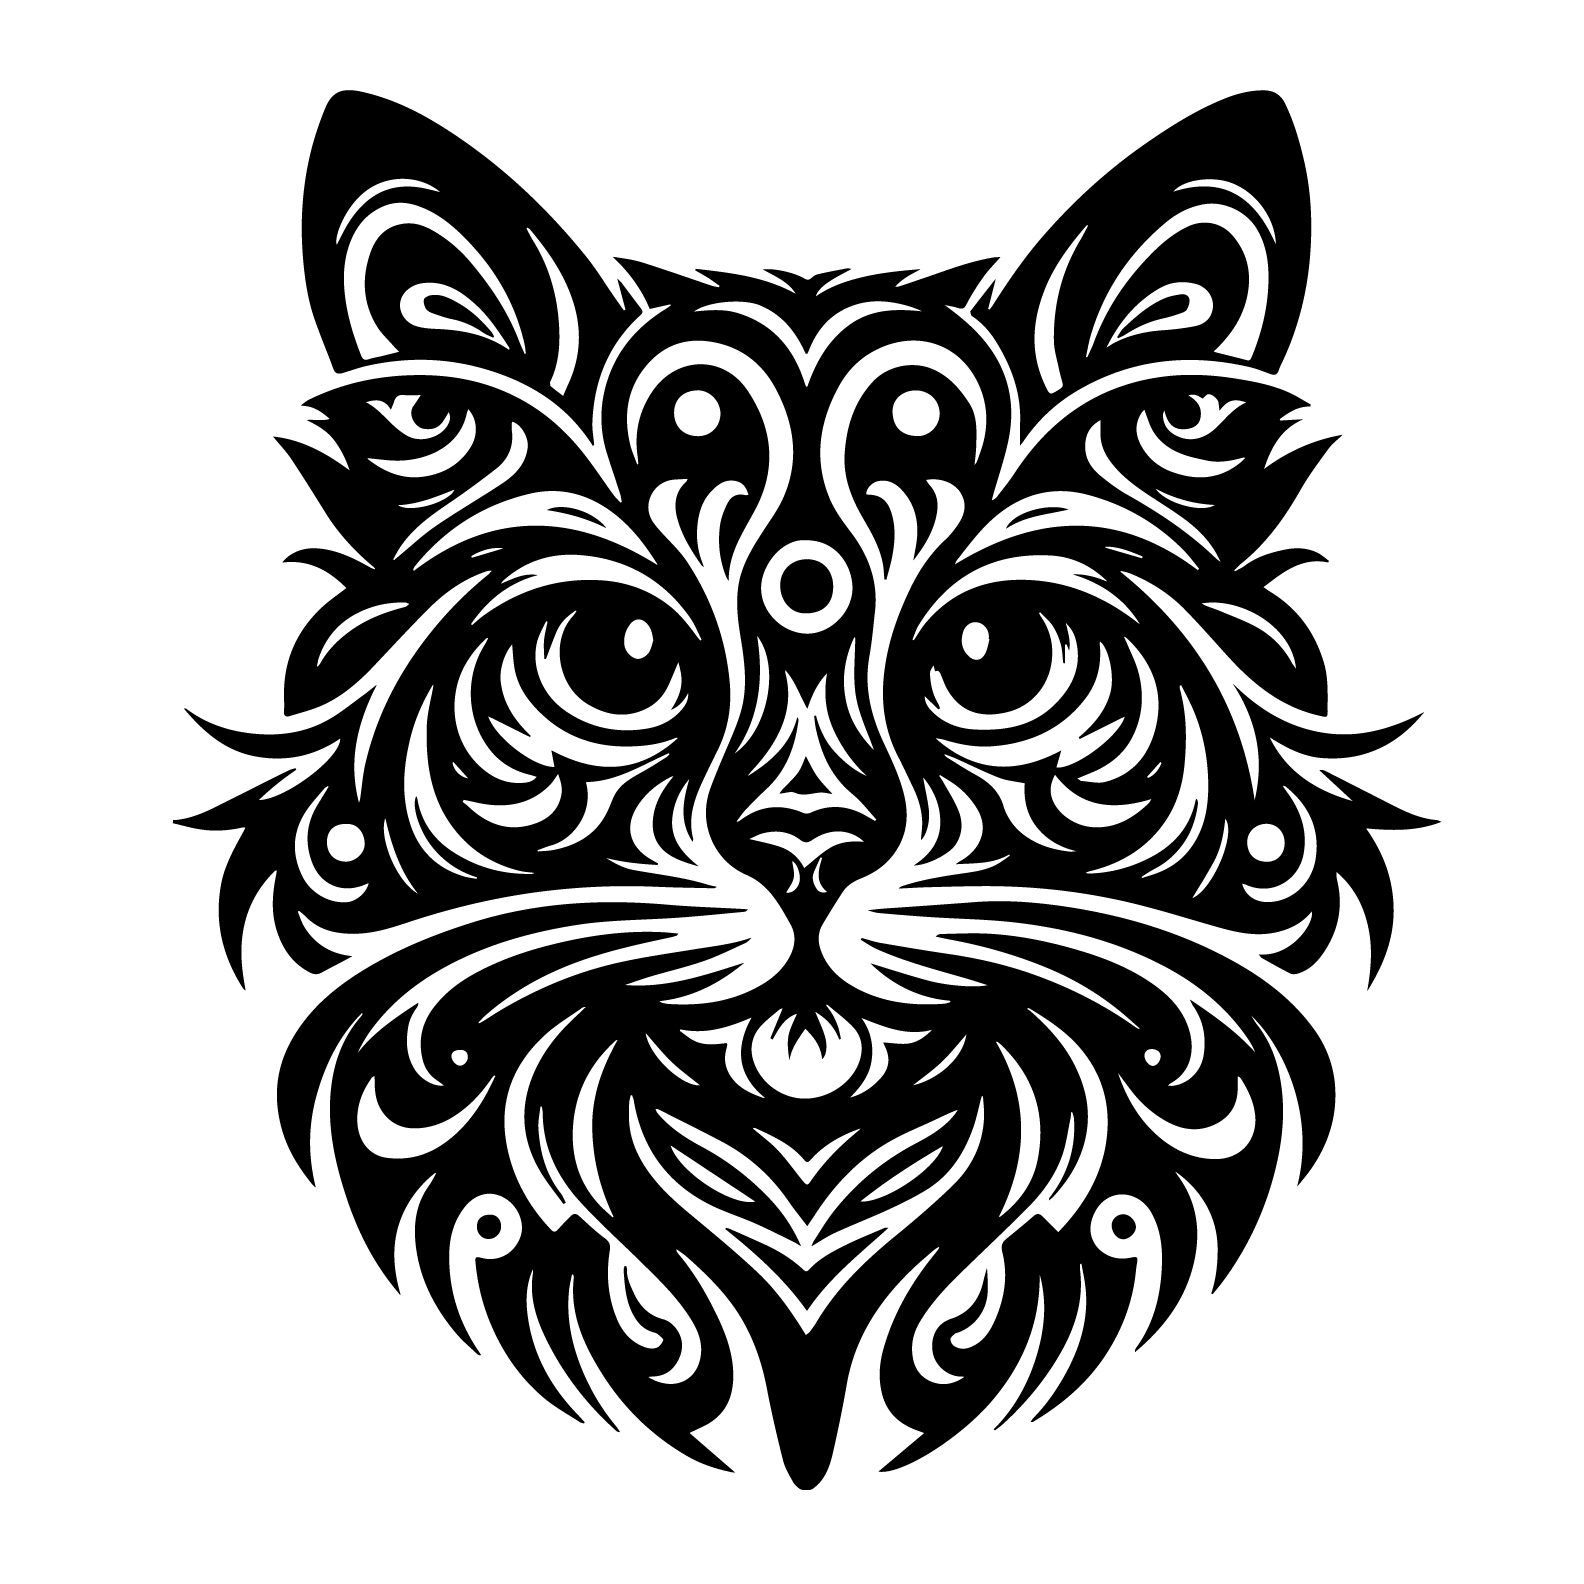
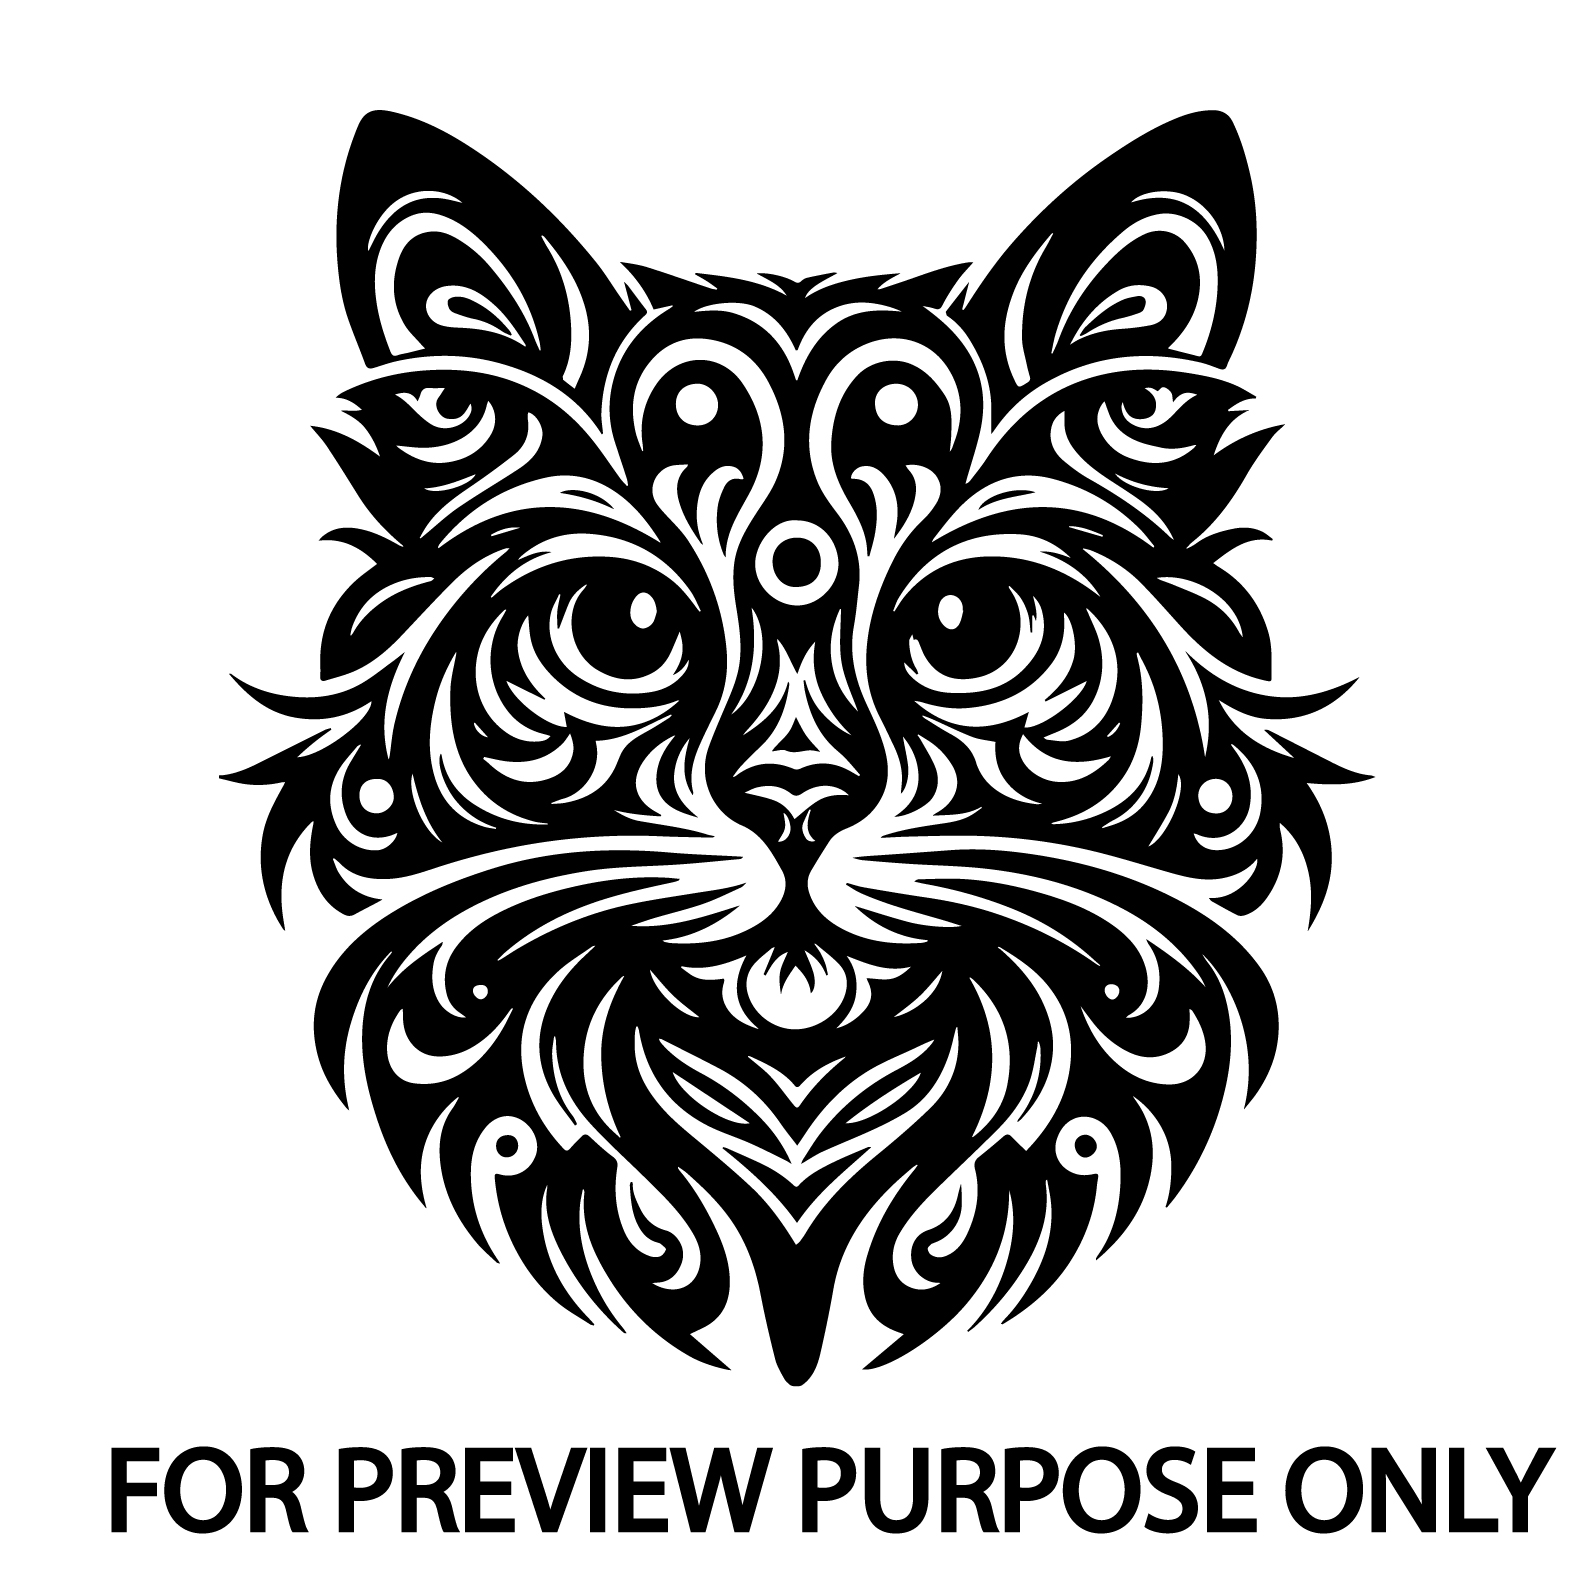
final at last but still

Changed region(s): [[0.0619, 0.0309, 0.9899, 0.9899]]

diff --git a/index.html b/index.html
@@ -492,6 +492,34 @@ h3{
     object-fit:contain;
     background:#08090d;
     display:block;
+    transform:scale(1);
+    transform-origin:center center;
+    transition:transform .2s ease;
+    cursor:zoom-in;
+}
+
+.zoom-controls{
+    position:absolute;
+    left:14px;
+    top:12px;
+    display:flex;
+    gap:6px;
+    z-index:2;
+}
+
+.zoom-controls button{
+    width:38px;
+    height:38px;
+    border-radius:50%;
+    border:1px solid #ffffff22;
+    background:#090a0dcc;
+    color:white;
+    cursor:pointer;
+    font-size:20px;
+}
+
+.zoom-controls button:hover{
+    background:#ffffff22;
 }
 
 .modal-content{
@@ -814,6 +842,12 @@ footer{
 
     <div class="modal-box">
 
+        <div class="zoom-controls">
+            <button id="zoomOut" title="Zoom Out">−</button>
+            <button id="zoomReset" title="Reset Zoom">⟳</button>
+            <button id="zoomIn" title="Zoom In">+</button>
+        </div>
+
         <button class="close" id="close">×</button>
 
         <img class="modal-img" id="modalImg" alt="">
@@ -844,35 +878,56 @@ const projects = [
         title:"Character — Half Body",
         category:"Half Body",
         description:"A polished half-body vector character illustration focused on expression, silhouette and clean line work.",
-        image:"https://images.unsplash.com/photo-1544005313-94ddf0286df2?auto=format&fit=crop&w=1200&q=85"
+        image:""
     },
 
     {
         title:"Character — Full Body",
         category:"Full Body",
         description:"Full-body character artwork designed with a strong silhouette and detailed clothing and proportions.",
-        image:"https://images.unsplash.com/photo-1500648767791-00dcc994a43e?auto=format&fit=crop&w=1200&q=85"
+        image:"Rabbit femboy-01.jpg"
     },
 
     {
         title:"Character Reference Sheet",
         category:"Reference Sheet",
         description:"A complete character presentation showing multiple views, expressions and design details.",
-        image:"https://images.unsplash.com/photo-1535713875002-d1d0cf377fde?auto=format&fit=crop&w=1200&q=85"
+        image:"Dog.jpg"
+    },
+    
+    {
+        title:"Character Reference Sheet",
+        category:"Reference Sheet",
+        description:"A complete character presentation showing multiple views, expressions and design details.",
+        image:"fox.jpg"
     },
 
     {
         title:"Stylized 2D Portrait",
         category:"2D",
         description:"A stylized 2D portrait using simplified shapes, confident edges and graphic color blocking.",
-        image:"https://images.unsplash.com/photo-1494790108377-be9c29b29330?auto=format&fit=crop&w=1200&q=85"
+        image:"mad1.jpg"
+    },
+
+    {
+        title:"Stylized 2D Portrait",
+        category:"2D",
+        description:"A stylized 2D portrait using simplified shapes, confident edges and graphic color blocking.",
+        image:"mad2.jpg"
     },
 
     {
         title:"2D Realistic Portrait",
         category:"2D Realistic",
         description:"A detailed 2D portrait with realistic proportions, subtle shading and refined rendering.",
-        image:"preview final-01.jpg"
+        image:"blue.jpg"
+    },
+    
+    {
+        title:"2D Realistic Portrait",
+        category:"2D Realistic",
+        description:"A detailed 2D portrait with realistic proportions, subtle shading and refined rendering.",
+        image:"fox girl-01.jpg"
     },
 
     {
@@ -882,7 +937,7 @@ const projects = [
         image:"cat-01.jpg"
     },
     {
-        title:"Sticker Tracing Pack",
+        title:"Simple Sticker Tracing",
         category:"Stickers Tracing",
         description:"Clean traced sticker artwork prepared with bold outlines and shapes suitable for sticker production.",
         image:"man-01.jpg"
@@ -906,6 +961,13 @@ const projects = [
         category:"Half Body",
         description:"An expressive character composition combining strong pose, facial expression and clean vector construction.",
         image:"https://images.unsplash.com/photo-1547425260-76bcadfb4f2c?auto=format&fit=crop&w=1200&q=85"
+    },
+
+    {
+        title:"T-Shirt Designing",
+        category:"T-Shirt Designing",
+        description:"Creative T-shirt designs developed with bold graphics, clean composition and strong visual impact.",
+        image:"shirt1.jpg"
     }
 
 ];
@@ -1014,11 +1076,58 @@ const modalImage = document.getElementById("modalImg");
 const modalCategory = document.getElementById("modalCategory");
 const modalTitle = document.getElementById("modalTitle");
 const modalDescription = document.getElementById("modalDescription");
+const zoomIn = document.getElementById("zoomIn");
+const zoomOut = document.getElementById("zoomOut");
+const zoomReset = document.getElementById("zoomReset");
+
+let zoomLevel = 1;
+
+function updateZoom(){
+    modalImage.style.transform = `scale(${zoomLevel})`;
+    modalImage.style.cursor = zoomLevel > 1 ? "zoom-out" : "zoom-in";
+}
+
+zoomIn.onclick = event => {
+    event.stopPropagation();
+    zoomLevel = Math.min(zoomLevel + 0.25, 3);
+    updateZoom();
+};
+
+zoomOut.onclick = event => {
+    event.stopPropagation();
+    zoomLevel = Math.max(zoomLevel - 0.25, 1);
+    updateZoom();
+};
+
+zoomReset.onclick = event => {
+    event.stopPropagation();
+    zoomLevel = 1;
+    updateZoom();
+};
+
+modalImage.addEventListener("wheel", event => {
+    event.preventDefault();
+    zoomLevel += event.deltaY < 0 ? 0.1 : -0.1;
+    zoomLevel = Math.min(Math.max(zoomLevel, 1), 3);
+    updateZoom();
+}, {passive:false});
+
+modalImage.onclick = event => {
+    event.stopPropagation();
+    if(zoomLevel > 1){
+        zoomLevel = 1;
+    }else{
+        zoomLevel = 2;
+    }
+    updateZoom();
+};
 
 function openModal(project){
 
     modalImage.src = project.image;
     modalImage.alt = project.title;
+    zoomLevel = 1;
+    updateZoom();
     modalCategory.textContent = project.category;
     modalTitle.textContent = project.title;
     modalDescription.textContent = project.description;

diff --git a/contact.html b/contact.html
@@ -600,6 +600,7 @@ footer{
                         <option>2D Realistic</option>
                         <option>Sticker Tracing</option>
                         <option>Image Tracing</option>
+                        <option>T-Shirt Designing</option>
                         <option>Other</option>
 
                     </select>
